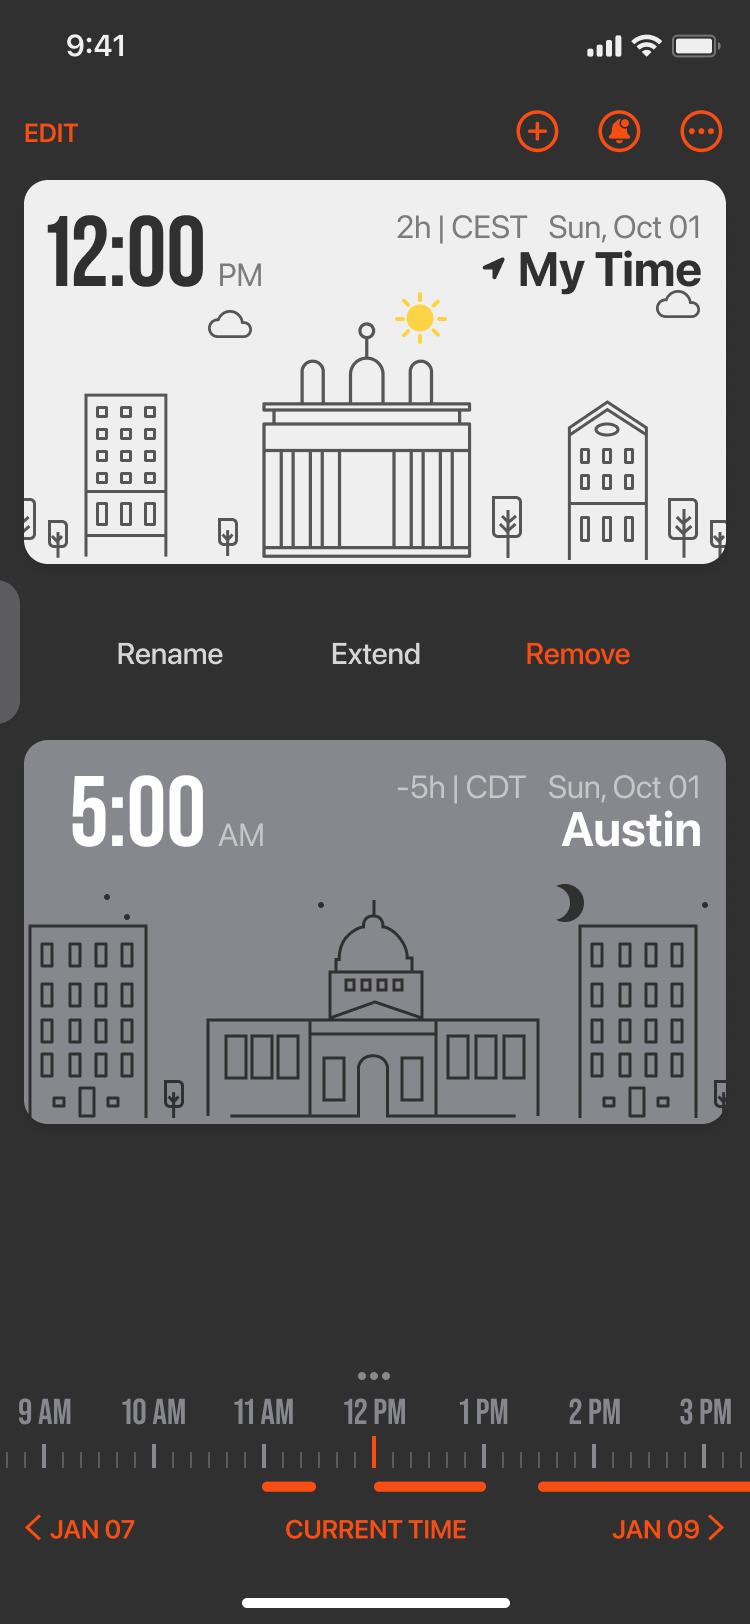
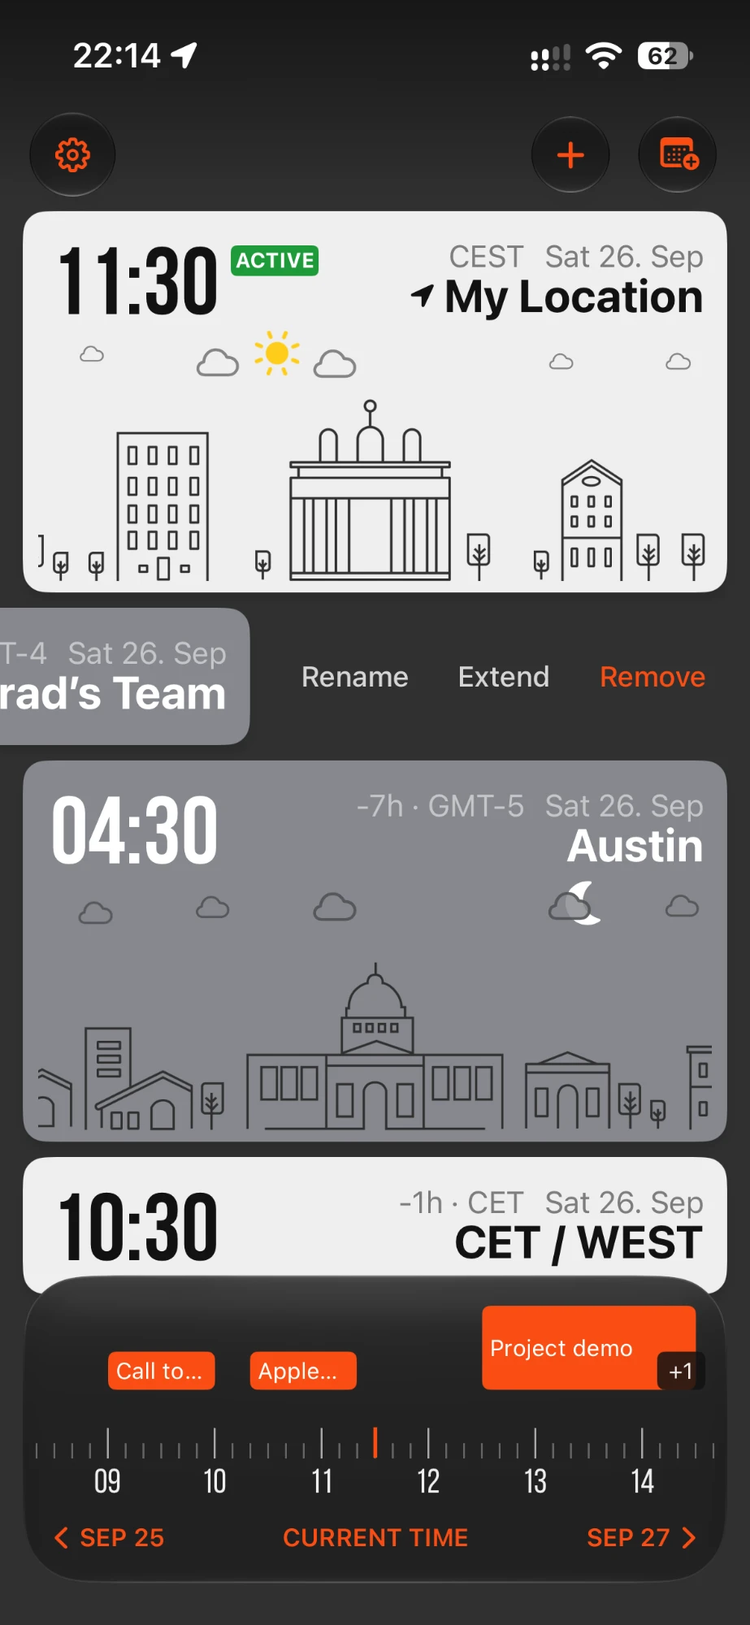
Replace website screenshots with current app UI
Real-device captures of the 1.0 interface in images/screens/ (750px),
alt texts updated to match what each frame shows, SW cache tempus-v6.

Claude-Session: https://claude.ai/code/session_01FBZxrLquD4Rsok28rXcMi2

diff --git a/index.html b/index.html
@@ -964,7 +964,7 @@
       <p class="hero-platform">Built for iPhone and iPad — one app, tuned for both phone and tablet.</p>
     </div>
     <div class="hero-phone" data-animate data-delay="2">
-      <img src="images/screens/01-main.png" alt="GlobeTempus+ showing clocks for My Location, Kyiv, Brad's Team and Austin" />
+      <img src="images/screens/01-main.png" alt="GlobeTempus+ main screen: My Location (active), Brad's Team, Austin (soon) and CET / WEST" />
     </div>
   </div>
 </section>
@@ -982,11 +982,11 @@
       <span class="screen-cap">Add any city</span>
     </div>
     <div class="screen-item main" data-animate data-delay="2">
-      <img src="images/screens/02-compact.png" alt="Compact cards with ACTIVE and SOON badges and calendar events on the timeline" />
+      <img src="images/screens/02-compact.png" alt="Clocks for My Location, Brad's Team and Austin with day and night city skylines" />
       <span class="screen-cap">Everyone at a glance</span>
     </div>
     <div class="screen-item side" data-animate data-delay="3">
-      <img src="images/screens/04-edit-list.png" alt="Edit Location List" />
+      <img src="images/screens/04-edit-list.png" alt="Edit Location List with four locations" />
       <span class="screen-cap">Edit &amp; reorder</span>
     </div>
   </div>
@@ -1037,7 +1037,7 @@
       </div>
     </div>
     <div class="feature-visual">
-      <img src="images/screens/07-day-agenda.png" alt="Day agenda listing every calendar event" />
+      <img src="images/screens/07-day-agenda.png" alt="Calendar events on the timeline under the clocks" />
     </div>
   </div>
 </div>
@@ -1062,7 +1062,7 @@
       </div>
     </div>
     <div class="feature-visual">
-      <img src="images/screens/06-swipe-actions.png" alt="Swipe actions: Rename, Minimize, Remove" />
+      <img src="images/screens/06-swipe-actions.png" alt="Swipe actions on Brad's Team: Rename, Extend, Remove" />
     </div>
   </div>
 </div>

diff --git a/sw.js b/sw.js
@@ -1,4 +1,4 @@
-const CACHE = 'tempus-v5';
+const CACHE = 'tempus-v6';
 /* Resolve paths relative to this script so GitHub Pages project URLs (/repo/) work. */
 const base = new URL('./', self.location.href).href;
 const ASSETS = [
